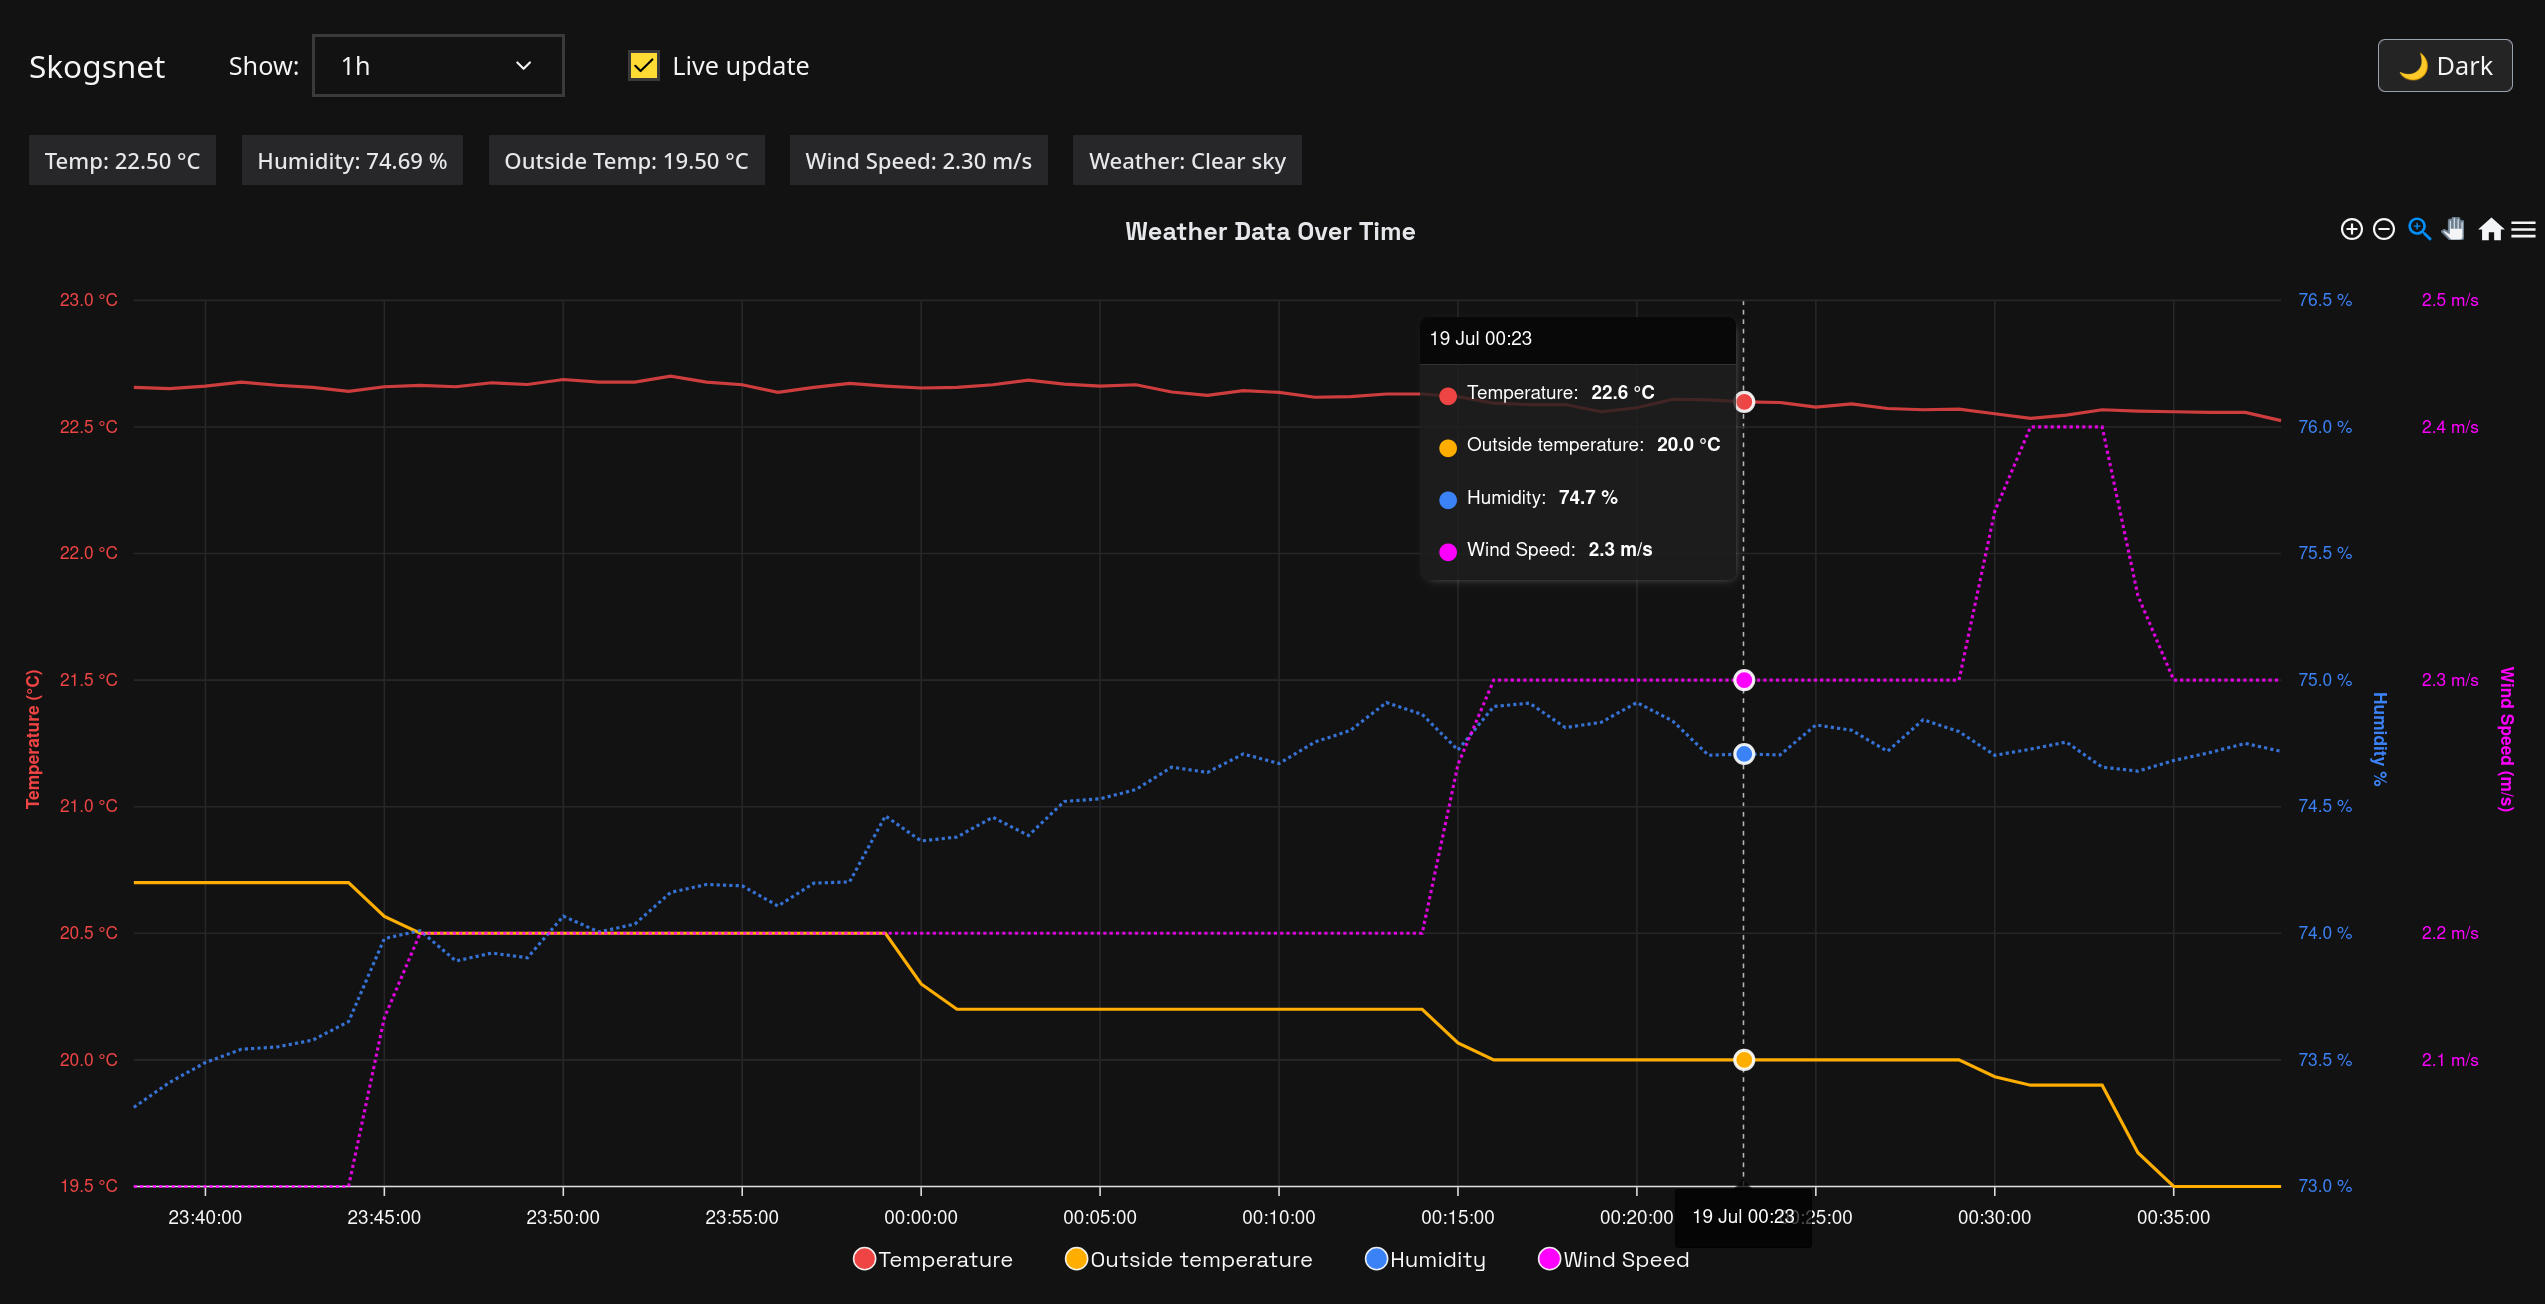
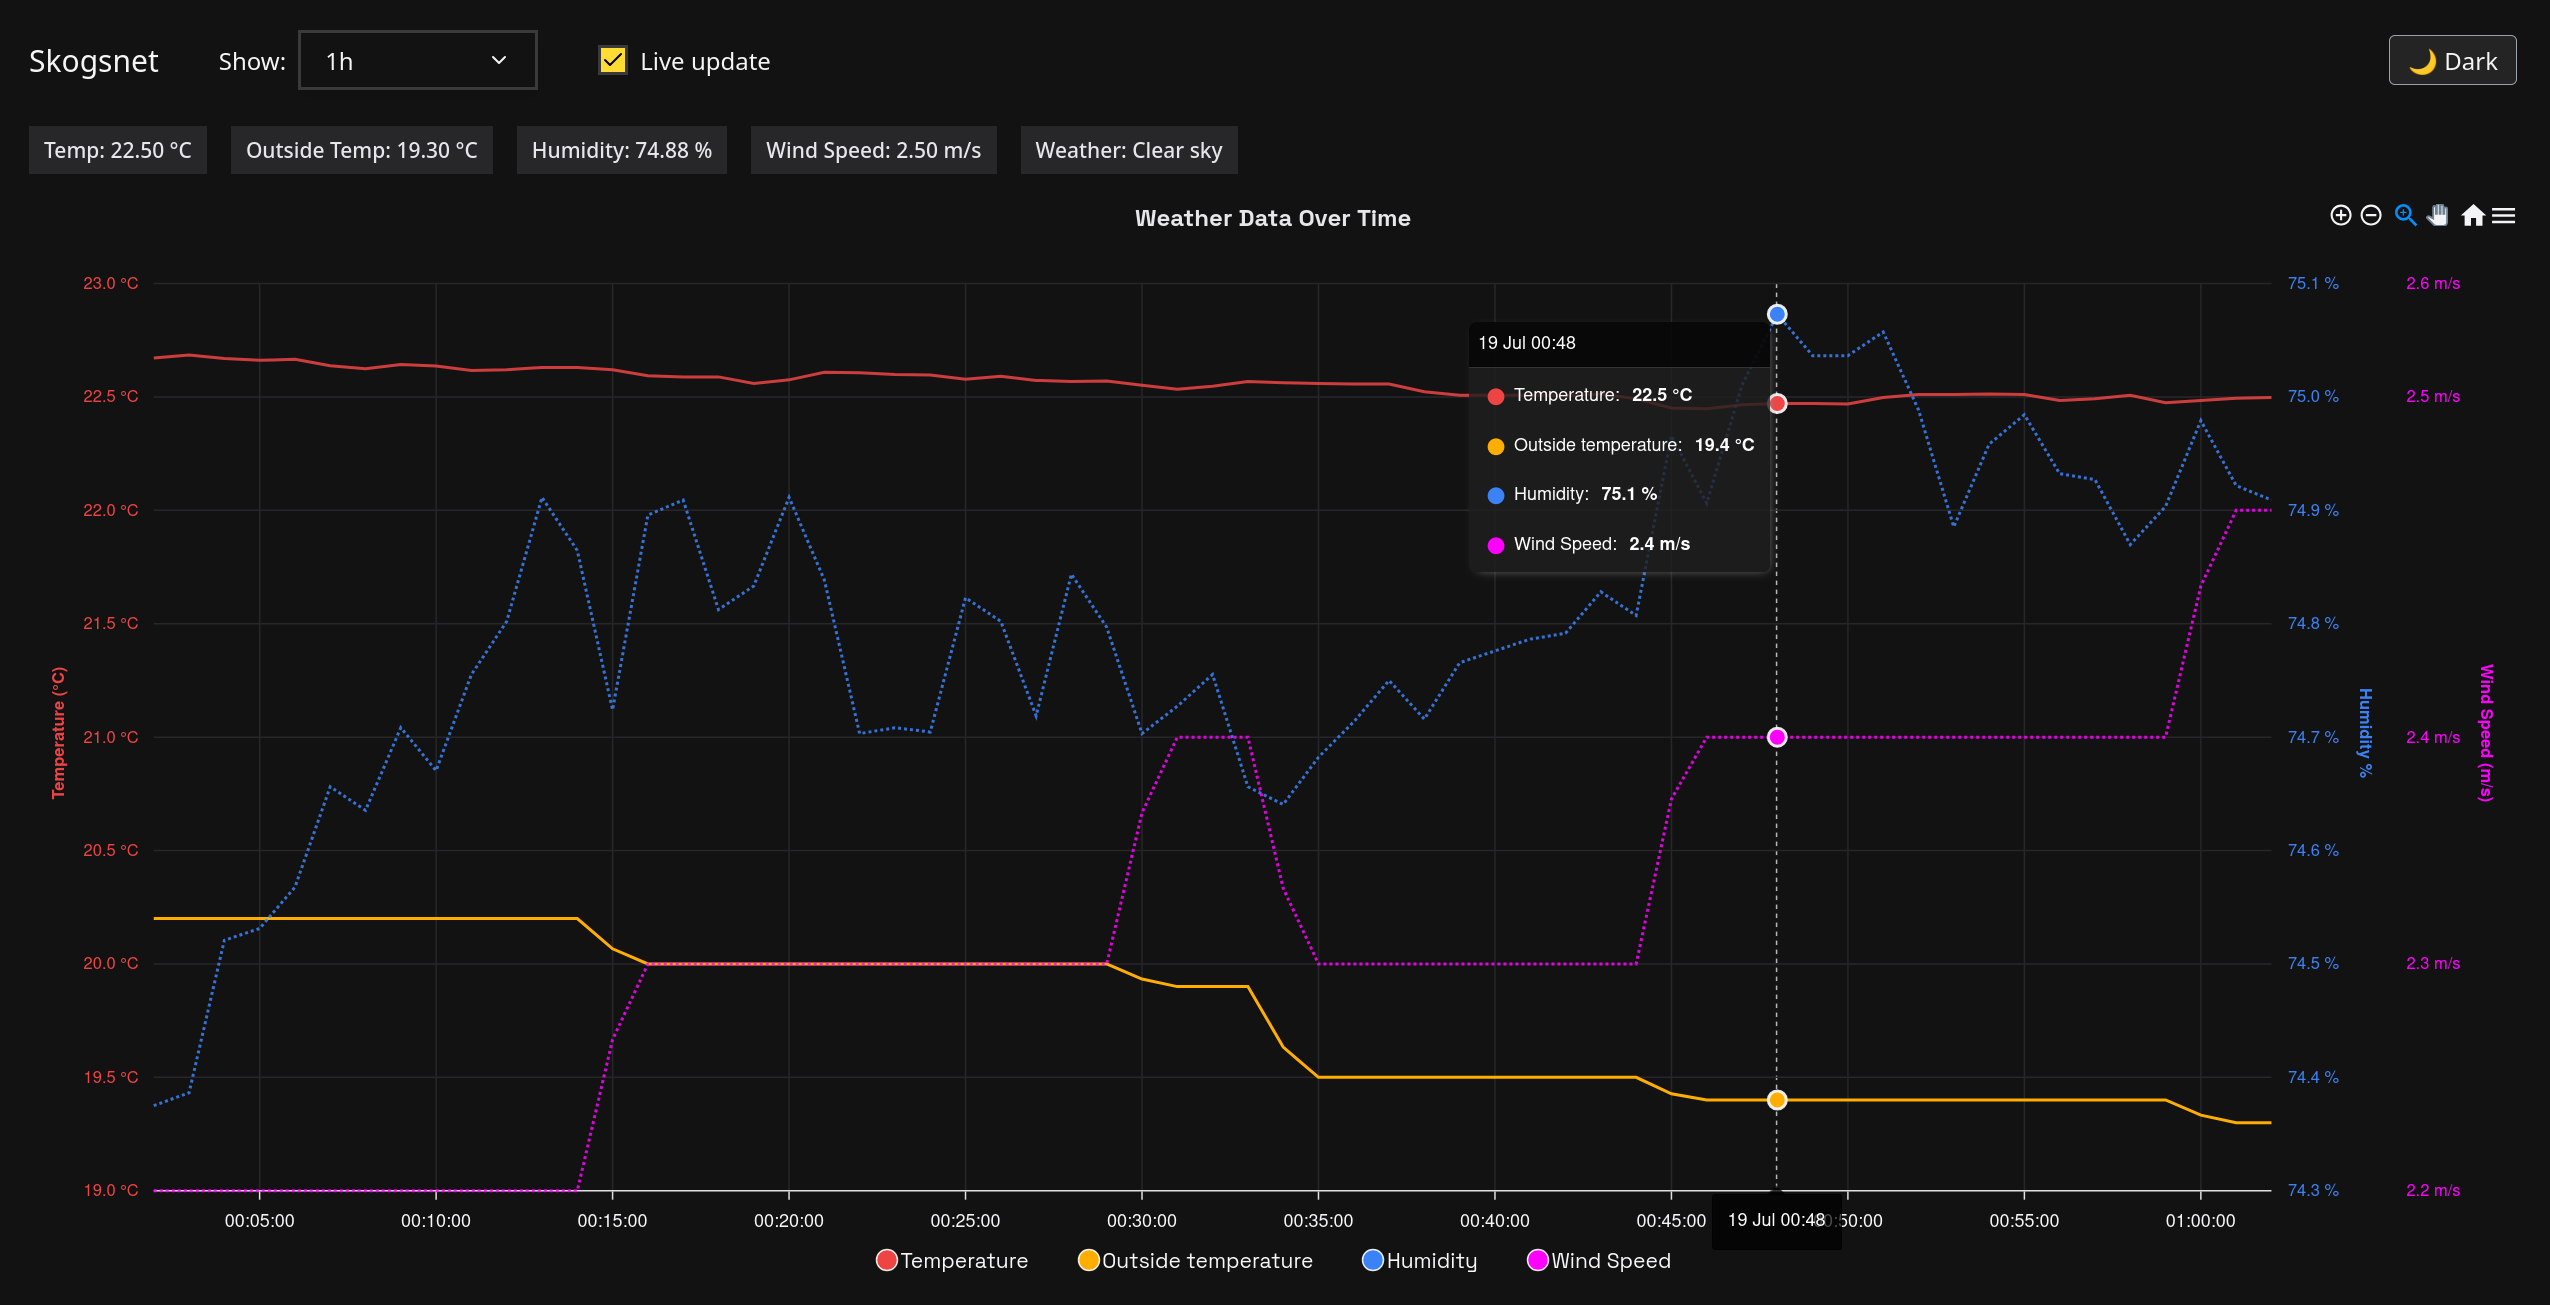
Bugfix: missing side padding for the chart

diff --git a/skogsnet-frontend/src/components/DataBar.tsx b/skogsnet-frontend/src/components/DataBar.tsx
@@ -20,10 +20,10 @@ export default function DataBar({
                 Temp: {currentTemp.toFixed(2)} °C
             </Badge>
             <Badge size="md" className="w-full sm:w-auto">
-                Humidity: {currentHumidity.toFixed(2)} %
+                Outside Temp: {currentOutsideTemp.toFixed(2)} °C
             </Badge>
             <Badge size="md" className="w-full sm:w-auto">
-                Outside Temp: {currentOutsideTemp.toFixed(2)} °C
+                Humidity: {currentHumidity.toFixed(2)} %
             </Badge>
             <Badge size="md" className="w-full sm:w-auto">
                 Wind Speed: {latestMeasurement ? latestMeasurement.AvgWindSpeed.toFixed(2) : 0} m/s

diff --git a/skogsnet-frontend/src/components/ChartPanel.tsx b/skogsnet-frontend/src/components/ChartPanel.tsx
@@ -176,7 +176,7 @@ const ChartPanel: React.FC<ChartPanelProps> = ({ darkMode, measurements, chartCo
     };
 
     return (
-        <div className="w-full h-full min-h-[800px] sm:min-h-[400px] mt-4 mb-4">
+        <div className="w-full h-full min-h-[800px] sm:min-h-[400px] mt-4 mb-4 pl-4 pr-4">
             <Chart
                 options={chartOptions}
                 series={chartOptions.series}
